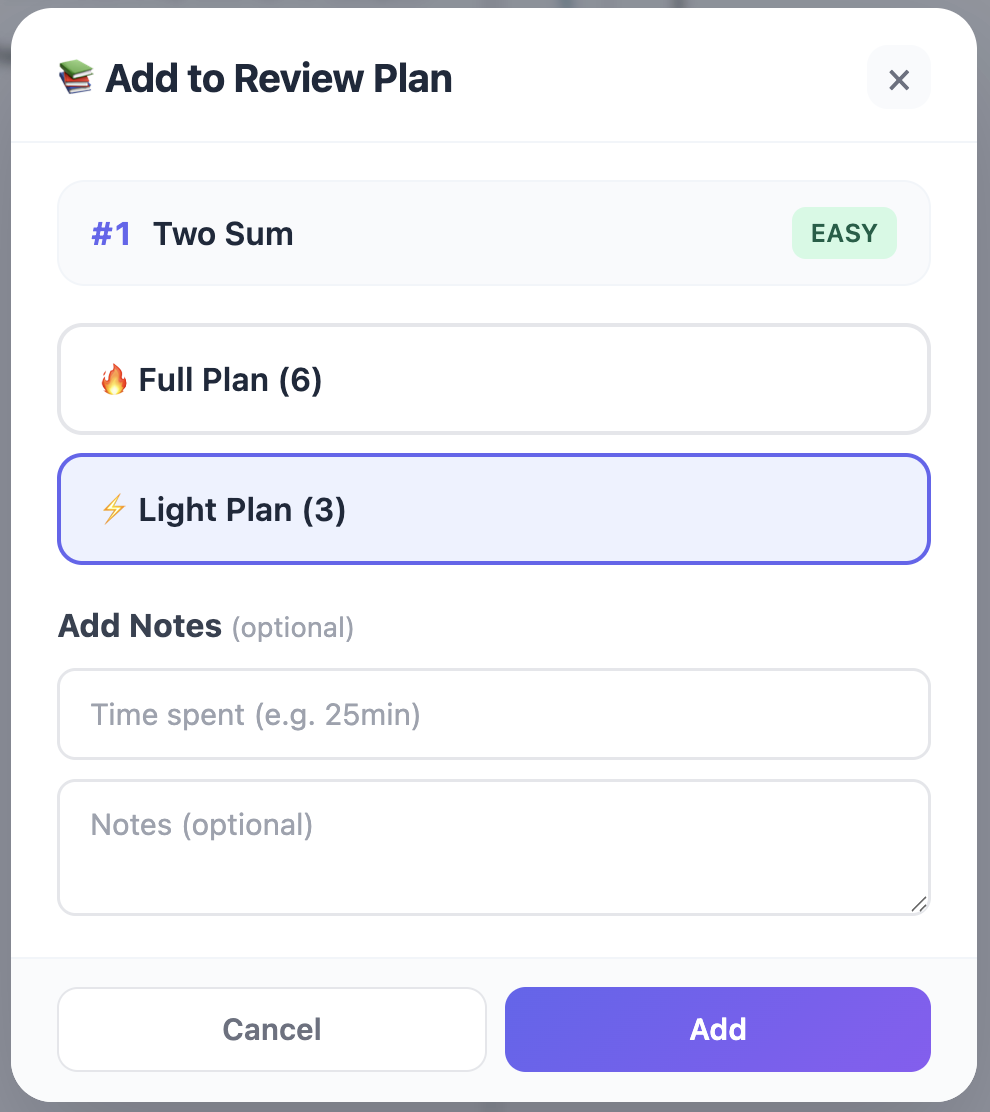
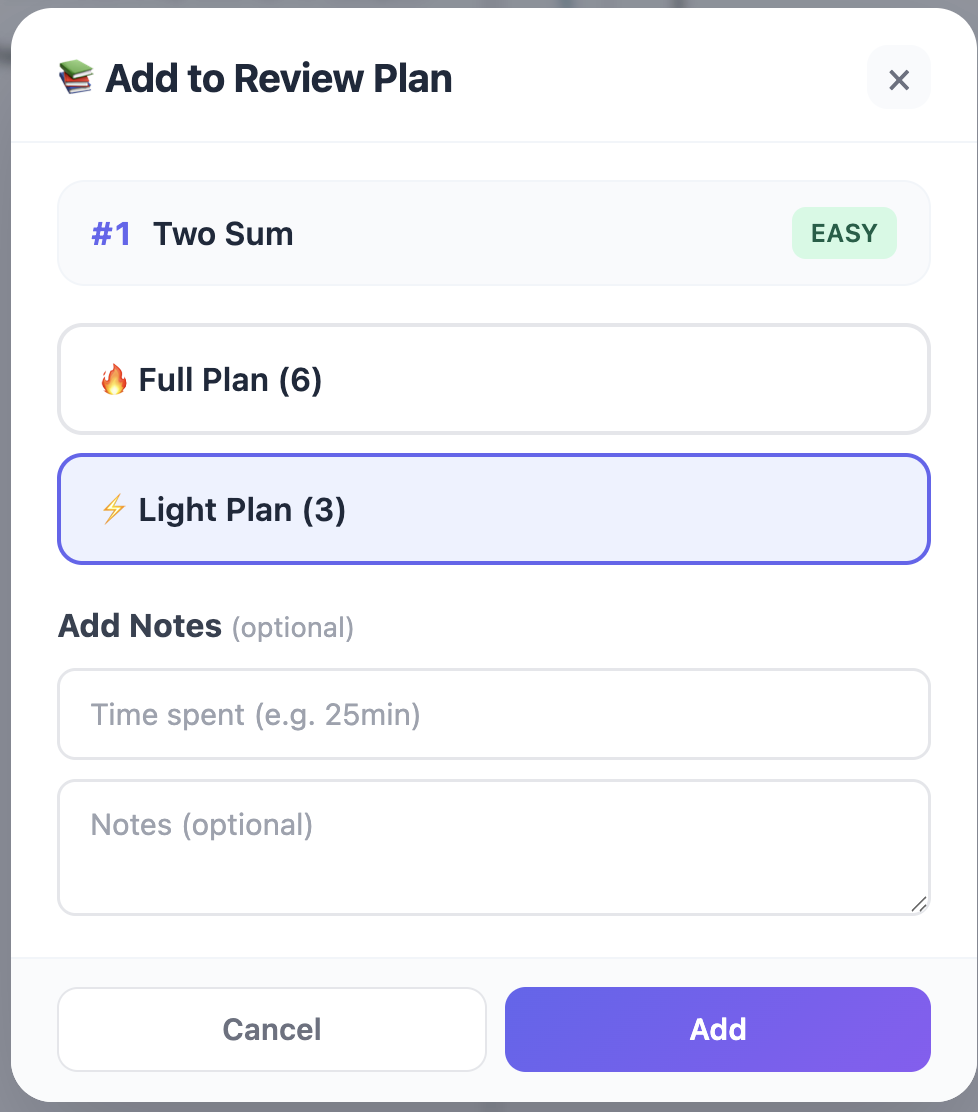
.

diff --git a/scripts/trim_image_borders.py b/scripts/trim_image_borders.py
@@ -1,0 +1,159 @@
+#!/usr/bin/env python3
+"""
+Trim near-solid outer borders from PNG screenshots.
+
+This is intended for README demo images where screenshots may include
+extra gray margins around the main content.
+
+Usage:
+  python3 scripts/trim_image_borders.py --dir images
+"""
+
+from __future__ import annotations
+
+import argparse
+from pathlib import Path
+import tkinter as tk
+
+
+def parse_rgb(value):
+    if isinstance(value, tuple):
+        return tuple(int(v) for v in value[:3])
+    if isinstance(value, str):
+        value = value.strip()
+        if value.startswith("#") and len(value) == 7:
+            return (int(value[1:3], 16), int(value[3:5], 16), int(value[5:7], 16))
+        parts = value.split()
+        if len(parts) >= 3 and all(p.isdigit() for p in parts[:3]):
+            return (int(parts[0]), int(parts[1]), int(parts[2]))
+    return (0, 0, 0)
+
+
+def color_distance(c1, c2):
+    return max(abs(c1[0] - c2[0]), abs(c1[1] - c2[1]), abs(c1[2] - c2[2]))
+
+
+def median_corner_color(corners):
+    rs = sorted(c[0] for c in corners)
+    gs = sorted(c[1] for c in corners)
+    bs = sorted(c[2] for c in corners)
+    mid = len(corners) // 2
+    return (rs[mid], gs[mid], bs[mid])
+
+
+def trim_one(path: Path, tolerance: int, border_ratio: float, step: int) -> tuple[bool, str]:
+    img = tk.PhotoImage(file=str(path))
+    w = int(img.width())
+    h = int(img.height())
+
+    if w < 20 or h < 20:
+        return False, "too small"
+
+    corners = [
+        parse_rgb(img.get(0, 0)),
+        parse_rgb(img.get(w - 1, 0)),
+        parse_rgb(img.get(0, h - 1)),
+        parse_rgb(img.get(w - 1, h - 1)),
+    ]
+    border_color = median_corner_color(corners)
+
+    def is_border(px):
+        return color_distance(parse_rgb(px), border_color) <= tolerance
+
+    def row_is_border(y):
+        total = 0
+        border_hits = 0
+        for x in range(0, w, step):
+            total += 1
+            if is_border(img.get(x, y)):
+                border_hits += 1
+        return (border_hits / max(1, total)) >= border_ratio
+
+    def col_is_border(x, y0, y1):
+        total = 0
+        border_hits = 0
+        for y in range(y0, y1 + 1, step):
+            total += 1
+            if is_border(img.get(x, y)):
+                border_hits += 1
+        return (border_hits / max(1, total)) >= border_ratio
+
+    top = 0
+    while top < h - 1 and row_is_border(top):
+        top += 1
+
+    bottom = h - 1
+    while bottom > top and row_is_border(bottom):
+        bottom -= 1
+
+    left = 0
+    while left < w - 1 and col_is_border(left, top, bottom):
+        left += 1
+
+    right = w - 1
+    while right > left and col_is_border(right, top, bottom):
+        right -= 1
+
+    # If nothing meaningful to trim, skip.
+    if top == 0 and left == 0 and right == w - 1 and bottom == h - 1:
+        return False, "no border detected"
+
+    # Keep a 1px safety padding to avoid over-cropping.
+    top = max(0, top - 1)
+    left = max(0, left - 1)
+    right = min(w - 1, right + 1)
+    bottom = min(h - 1, bottom + 1)
+
+    new_w = right - left + 1
+    new_h = bottom - top + 1
+    if new_w < 10 or new_h < 10:
+        return False, "crop result invalid"
+
+    cropped = tk.PhotoImage(width=new_w, height=new_h)
+    cropped.tk.call(
+        cropped,
+        "copy",
+        img,
+        "-from",
+        left,
+        top,
+        right + 1,
+        bottom + 1,
+        "-to",
+        0,
+        0,
+    )
+    cropped.write(str(path), format="png")
+    return True, f"trimmed to {new_w}x{new_h}"
+
+
+def main():
+    parser = argparse.ArgumentParser()
+    parser.add_argument("--dir", default="images", help="Directory containing PNG files")
+    parser.add_argument("--tolerance", type=int, default=14, help="Color tolerance for border match")
+    parser.add_argument("--ratio", type=float, default=0.985, help="Row/column border ratio threshold")
+    parser.add_argument("--step", type=int, default=2, help="Sampling step size")
+    args = parser.parse_args()
+
+    image_dir = Path(args.dir).resolve()
+    files = sorted(image_dir.glob("*.png"))
+    if not files:
+        print(f"No PNG files found in {image_dir}")
+        return
+
+    root = tk.Tk()
+    root.withdraw()
+
+    changed = 0
+    for path in files:
+        ok, msg = trim_one(path, args.tolerance, args.ratio, args.step)
+        print(f"{path.name}: {msg}")
+        if ok:
+            changed += 1
+
+    root.destroy()
+    print(f"\nDone. {changed}/{len(files)} files updated.")
+
+
+if __name__ == "__main__":
+    main()

diff --git a/README.md b/README.md
@@ -43,34 +43,31 @@ Optional:
 5. Use `Home` to search/filter/manage all tracked problems.
 6. Customize settings: language, UI scale, intervals, export/import.
 
-### Example Screenshots
+### Example Screenshots + Context
 
-<table>
-  <tr>
-    <td width="50%">
-      <img src="images/01-problem-page-widget-collapsed.png" alt="Problem page - widget collapsed" width="100%">
-    </td>
-    <td width="50%">
-      <img src="images/02-problem-page-widget-expanded.png" alt="Problem page - widget expanded" width="100%">
-    </td>
-  </tr>
-  <tr>
-    <td width="50%">
-      <img src="images/03-add-to-review-modal.png" alt="Add to review modal" width="100%">
-    </td>
-    <td width="50%">
-      <img src="images/04-problem-record-modal.png" alt="Problem record modal" width="100%">
-    </td>
-  </tr>
-  <tr>
-    <td width="50%">
-      <img src="images/05-home-all-problems.png" alt="Home - all problems" width="100%">
-    </td>
-    <td width="50%">
-      <img src="images/06-settings-panel.png" alt="Settings panel" width="100%">
-    </td>
-  </tr>
-</table>
+**A) Problem-page entry and quick actions**  
+The workflow starts directly on the problem page. First you see the compact floating entry; after expanding it, you can immediately choose what to do next: add this problem to a review plan, submit a review, or open the record panel.
+
+<p>
+  <img src="images/01-problem-page-widget-collapsed.png" alt="Problem page - widget collapsed" width="49%">
+  <img src="images/02-problem-page-widget-expanded.png" alt="Problem page - widget expanded" width="49%">
+</p>
+
+**B) Plan setup and record tracking**  
+When adding a problem, you pick Full or Light intervals and can attach optional notes/time to keep context. Later, the record page shows your progress, review history, and upcoming review dates so you always know what to practice next.
+
+<p>
+  <img src="images/03-add-to-review-modal.png" alt="Add to review modal" width="49%">
+  <img src="images/04-problem-record-modal.png" alt="Problem record modal" width="49%">
+</p>
+
+**C) Daily management and personalization**  
+The Home panel is your daily command center for searching, filtering, and bulk actions across all tracked problems. Settings lets you personalize language, UI scale, interval templates, and data backup flow for long-term use.
+
+<p>
+  <img src="images/05-home-all-problems.png" alt="Home - all problems" width="49%">
+  <img src="images/06-settings-panel.png" alt="Settings panel" width="49%">
+</p>
 
 
 ## ✨ Features
